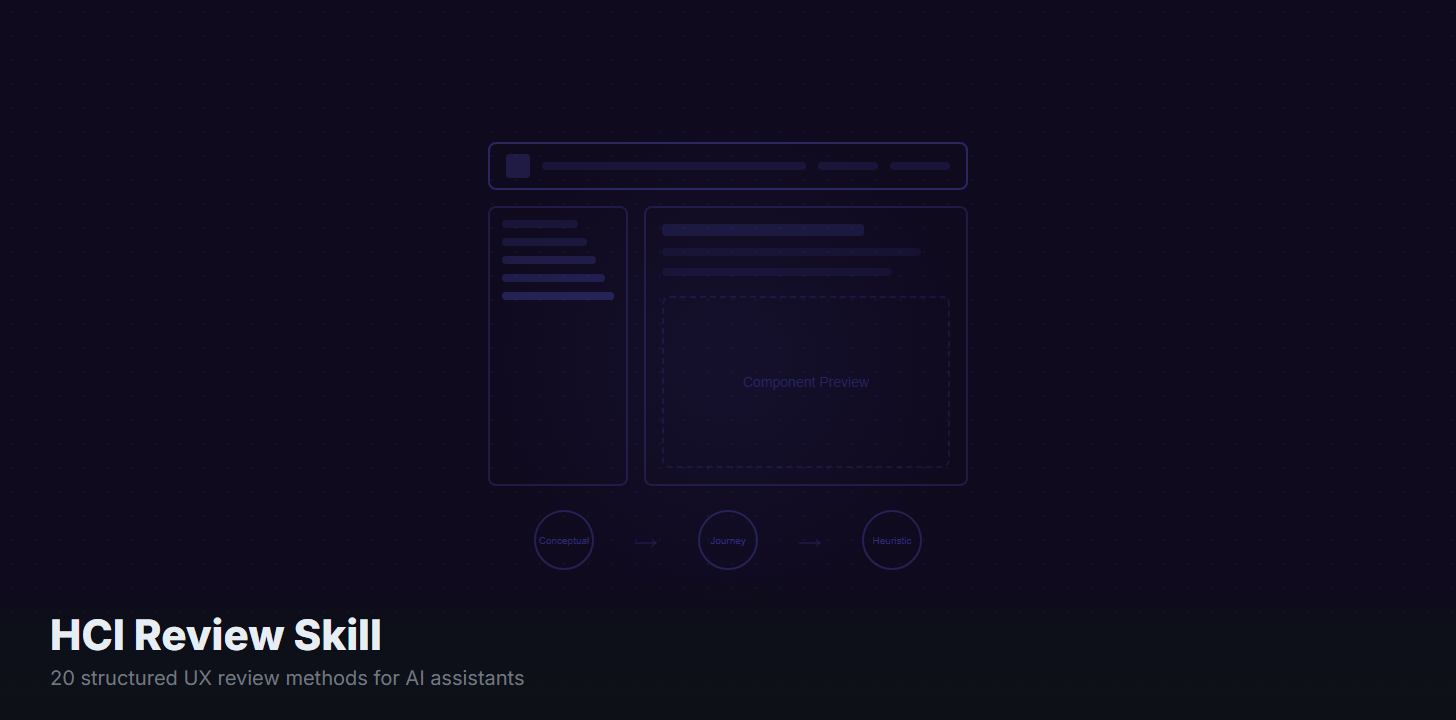
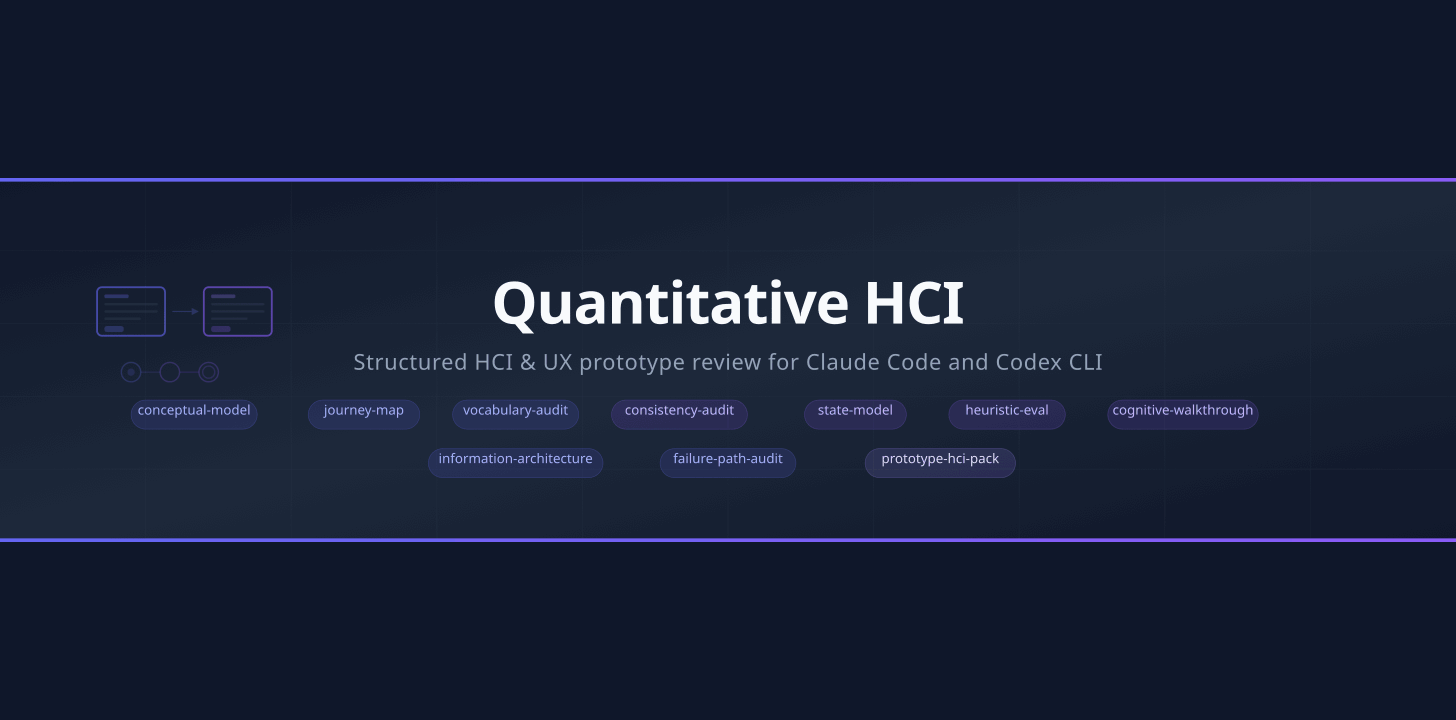
Add quantitative models for 20 interface design patterns

Changed region(s): [[0.0, 0.2139, 1.0, 0.7639], [0.0309, 0.8556, 0.3709, 0.9472]]

diff --git a/docs/hci/models/measure.py b/docs/hci/models/measure.py
@@ -1,0 +1,224 @@
+#!/usr/bin/env python3
+"""Calculate HCI diagnostics from measured inputs. See interface-design-models.md."""
+
+import argparse
+import json
+import math
+import statistics
+import sys
+from pathlib import Path
+
+
+def divide(numerator, denominator):
+    if denominator <= 0:
+        raise ValueError("a measurement denominator must be positive")
+    return numerator / denominator
+
+
+def rate(count, total):
+    if type(count) is not int or type(total) is not int or not 0 <= count <= total:
+        raise ValueError("counts must be integers with 0 <= count <= total")
+    return divide(count, total)
+
+
+def spread(samples):
+    return max(samples) - min(samples)
+
+
+def percentile(samples, fraction):
+    if not samples:
+        raise ValueError("percentiles require at least one sample")
+    return sorted(samples)[math.ceil(fraction * len(samples)) - 1]
+
+
+def kerning(kerned_px, unkerned_px, font_size_px):
+    return {"pair_adjustment_em": divide(kerned_px - unkerned_px, font_size_px)}
+
+
+def optical_centre(ink_centroid_px, container_centre_px, container_short_side_px):
+    offset = math.dist(ink_centroid_px, container_centre_px)
+    return {"normalised_centre_offset": divide(offset, container_short_side_px)}
+
+
+def tabular_numbers(digit_advances_px, decimal_positions_px):
+    if len(digit_advances_px) != 10:
+        raise ValueError("provide one advance for each of the ten digits")
+    return {
+        "digit_advance_spread_px": spread(digit_advances_px),
+        "decimal_drift_px": spread(decimal_positions_px),
+    }
+
+
+def layout_shift(page_view_cls, target_drift_px):
+    return {
+        "p75_cls": percentile(page_view_cls, 0.75),
+        "p95_target_drift_px": percentile(target_drift_px, 0.95),
+    }
+
+
+def tracking(letter_spacing_px, font_size_px):
+    return {"tracking_em": divide(letter_spacing_px, font_size_px)}
+
+
+def optimistic_update(action_ms, paint_ms, settled_ms, reconciled, settled_mutations):
+    return {
+        "feedback_ms": paint_ms - action_ms,
+        "confirmation_gap_ms": settled_ms - paint_ms,
+        "reconciliation_rate": rate(reconciled, settled_mutations),
+    }
+
+
+def x_height(x_height_px, font_size_px):
+    return {"x_height_ratio": divide(x_height_px, font_size_px)}
+
+
+def touch_target(distance_px, target_width_px, intercept_ms, slope_ms_per_bit):
+    index = math.log2(1 + divide(distance_px, target_width_px))
+    return {
+        "index_of_difficulty_bits": index,
+        "predicted_movement_ms": intercept_ms + slope_ms_per_bit * index,
+    }
+
+
+def leading(baseline_distance_px, font_size_px):
+    return {"line_height_ratio": divide(baseline_distance_px, font_size_px)}
+
+
+def origin_aware_animation(first_anchor_px, trigger_anchor_px, trigger_diagonal_px):
+    offset = math.dist(first_anchor_px, trigger_anchor_px)
+    return {"normalised_origin_error": divide(offset, trigger_diagonal_px)}
+
+
+def oklch(palette_lightness, foreground_luminance, background_luminance):
+    if not all(0 <= value <= 1 for value in (*palette_lightness, foreground_luminance, background_luminance)):
+        raise ValueError("lightness and relative luminance must be in [0, 1]")
+    darker, lighter = sorted((foreground_luminance, background_luminance))
+    return {
+        "oklch_lightness_spread": spread(palette_lightness),
+        "wcag_contrast_ratio": (lighter + 0.05) / (darker + 0.05),
+    }
+
+
+def widow(one_word_endings, multiline_blocks):
+    return {"one_word_final_line_rate": rate(one_word_endings, multiline_blocks)}
+
+
+def safe_area(target_ltrb_px, safe_ltrb_px):
+    left, top, right, bottom = target_ltrb_px
+    safe_left, safe_top, safe_right, safe_bottom = safe_ltrb_px
+    if left >= right or top >= bottom or safe_left >= safe_right or safe_top >= safe_bottom:
+        raise ValueError("rectangles require positive width and height in left, top, right, bottom order")
+    return {
+        "minimum_clearance_px": min(
+            left - safe_left, top - safe_top, safe_right - right, safe_bottom - bottom
+        ),
+    }
+
+
+def stagger(onsets_ms, content_ready_ms, all_items_usable_ms):
+    return {
+        "onset_spread_ms": spread(onsets_ms),
+        "readiness_delay_ms": all_items_usable_ms - content_ready_ms,
+    }
+
+
+def line_length(full_line_graphemes):
+    return {
+        "median_graphemes": statistics.median(full_line_graphemes),
+        "p90_graphemes": percentile(full_line_graphemes, 0.90),
+    }
+
+
+def affordance(correct_first_actions, attempts):
+    return {"correct_first_action_rate": rate(correct_first_actions, attempts)}
+
+
+def combobox(correct_selections, attempts, input_to_results_ms, stale_queries, queries):
+    return {
+        "correct_selection_rate": rate(correct_selections, attempts),
+        "p95_input_to_results_ms": percentile(input_to_results_ms, 0.95),
+        "stale_query_rate": rate(stale_queries, queries),
+    }
+
+
+def interruptible_animation(input_ms, first_retargeted_frame_ms, before_px, after_px):
+    return {
+        "retarget_latency_ms": first_retargeted_frame_ms - input_ms,
+        "position_jump_px": math.dist(before_px, after_px),
+    }
+
+
+def progressive_disclosure(advanced_share, mean_basic_s, mean_advanced_s, advanced_successes, advanced_attempts):
+    if not 0 <= advanced_share <= 1:
+        raise ValueError("advanced task share must be in [0, 1]")
+    return {
+        "expected_task_time_s": (1 - advanced_share) * mean_basic_s + advanced_share * mean_advanced_s,
+        "advanced_completion_rate": rate(advanced_successes, advanced_attempts),
+    }
+
+
+def shared_element_transition(animated_corners_px, live_corners_px, input_ms, destination_ready_ms):
+    if len(animated_corners_px) != 4 or len(live_corners_px) != 4:
+        raise ValueError("provide four matching corners for each box")
+    return {
+        "handoff_error_px": max(math.dist(before, after) for before, after in zip(animated_corners_px, live_corners_px)),
+        "task_latency_ms": destination_ready_ms - input_ms,
+    }
+
+
+MODELS = {
+    "kerning": kerning,
+    "optical-centre": optical_centre,
+    "tabular-numbers": tabular_numbers,
+    "layout-shift": layout_shift,
+    "tracking": tracking,
+    "optimistic-update": optimistic_update,
+    "x-height": x_height,
+    "touch-target": touch_target,
+    "leading": leading,
+    "origin-aware-animation": origin_aware_animation,
+    "oklch": oklch,
+    "widow": widow,
+    "safe-area": safe_area,
+    "stagger": stagger,
+    "line-length": line_length,
+    "affordance": affordance,
+    "combobox": combobox,
+    "interruptible-animation": interruptible_animation,
+    "progressive-disclosure": progressive_disclosure,
+    "shared-element-transition": shared_element_transition,
+}
+
+
+def calculate(measurements):
+    if not isinstance(measurements, dict) or not measurements:
+        raise ValueError("expected a non-empty JSON object keyed by model ID")
+
+    results = {}
+    for name, inputs in measurements.items():
+        if name not in MODELS:
+            raise ValueError(f"unknown model '{name}'")
+        try:
+            metrics = MODELS[name](**inputs)
+            if not all(math.isfinite(value) for value in metrics.values()):
+                raise ValueError("all computed measurements must be finite")
+            results[name] = metrics
+        except (ArithmeticError, TypeError, ValueError) as error:
+            raise ValueError(f"{name}: {error}") from error
+    return results
+
+
+def main():
+    parser = argparse.ArgumentParser(description=__doc__)
+    parser.add_argument("measurements", help="JSON measurements file, or '-' for standard input")
+    args = parser.parse_args()
+    try:
+        raw = sys.stdin.read() if args.measurements == "-" else Path(args.measurements).read_text(encoding="utf-8")
+        results = calculate(json.loads(raw))
+    except (OSError, ValueError) as error:
+        parser.exit(2, f"{parser.prog}: {error}\n")
+    print(json.dumps(results, indent=2, allow_nan=False))
+
+
+if __name__ == "__main__":
+    main()

diff --git a/docs/hci/models/interface-design-models.md b/docs/hci/models/interface-design-models.md
@@ -1,0 +1,59 @@
+# Quantitative models for 20 interface design terms
+
+The [source reel](https://www.instagram.com/reel/DfknF2ljIE6/) supplies the terms and their order. The models below specify what to measure, what the number means, and where a user outcome needs separate evidence. All example values are synthetic.
+
+Run every example with Python 3.9+ from the repository root:
+
+```bash
+python3 docs/hci/models/measure.py docs/hci/models/example-measurements.json
+```
+
+Pass a JSON object keyed by model ID with the input fields shown in the [example file](example-measurements.json). Omit models outside the task. Use `-` as the filename to read the object from standard input. The calculator consumes measured values. Collect browser traces, geometry or usability observations first.
+
+## Model catalogue
+
+| # | Reel term and model ID | Quantitative model | How to measure and interpret it |
+| --- | --- | --- | --- |
+| 1 | Kerning · `kerning` | Pair adjustment in em = (advance with kerning − advance without kerning) / font size. For example, (30 − 32) / 20 = −0.10 em. | Shape the same pair twice with the same font, size, axes and script, toggling kerning only. Use the pair advance along the writing direction. The sign shows whether kerning tightens or loosens the pair. Judge visual quality on representative pairs at the actual size. |
+| 2 | Optical centre · `optical-centre` | Residual imbalance proxy = Euclidean distance from the adjusted ink centroid to the container centre, divided by the container's short side. For example, 1 / 32 ≈ 0.0313. | Compute an alpha-weighted ink centroid from the rendered icon and express both points in the same CSS pixel space. Compare candidate offsets with a blinded preference check. Ink balance is a geometric proxy for perceived centring. |
+| 3 | Tabular numbers · `tabular-numbers` | Digit spread = max advance − min advance across digits 0–9. Decimal drift = max decimal-anchor x − min anchor x across rows. For example, 0 px and 0 px. | Measure actual glyph advances in the rendered numeric face and separator positions in a common column coordinate system. Try multiple digit counts, signs, currencies and locales. Equal digit widths allow stable updates and require decimal alignment separately. |
+| 4 | Layout shift · `layout-shift` | Field CLS target ≤ 0.10 at the 75th percentile. For a lab trace, a shift score is impact fraction × distance fraction. CLS is the largest eligible session-window sum. For example, p75 CLS 0.12, p95 target drift 36 px. | Collect one browser CLS value per completed page-view measurement and segment field results by device class. Use the Web Vitals session-window rules. Also measure movement of the actionable target between its initial position and activation, including shifts CLS excludes after input. |
+| 5 | Tracking · `tracking` | Tracking in em = computed letter spacing in CSS px / font size in CSS px. For example, 0.48 / 16 = 0.03 em. | Compare tracking across sizes using computed styles and inspect wrapping for the real scripts and strings. Apply all WCAG text-spacing overrides together to check for lost content or functionality. The 0.12 em override is a test condition. |
+| 6 | Optimistic update · `optimistic-update` | Feedback latency = first visible result − action. Confirmation gap = server settlement − first visible result. Reconciliation rate = rolled-back or corrected mutations / settled mutations. For example, 40 ms, 440 ms, 3%. | Correlate each action, painted state, settlement and reconciliation by mutation ID. Sample normal, offline, rejected and out-of-order responses. Review p95 feedback latency and reconcile every terminal outcome to the latest authoritative state. |
+| 7 | x-height · `x-height` | x-height ratio = lowercase x-height / font size. For example, 8.8 / 16 = 0.55. | Measure the lowercase x above its baseline or use the instantiated font's x-height metric. Hold size and rendering conditions constant between faces. Compare reading accuracy or speed at the intended sizes and include script-appropriate metrics for other writing systems. |
+| 8 | Touch target · `touch-target` | Fitts' law index of difficulty = log₂(1 + D/W), with distance D and target width W along the movement axis. Predicted movement time = a + b × index. For example, 96 / 48 gives 1.585 bits and 175.1 ms using a = 80 ms and b = 60 ms/bit. | Measure the effective hit region and pointing distance in CSS px. Fit coefficients on representative tasks and devices, then observe miss rates. Separately check WCAG 2.2 AA SC 2.5.8 against the 24 × 24 CSS px minimum and applicable exceptions. |
+| 9 | Leading · `leading` | Line-height ratio = baseline distance / font size. For example, 24 / 16 = 1.5. | Measure adjacent baselines in a consistent text block. Test wrapped paragraphs, fallback fonts and zoom. Verify that WCAG text-spacing overrides leave all content and controls usable. |
+| 10 | Origin-aware animation · `origin-aware-animation` | Origin error = distance from the first visible motion anchor to the trigger anchor / trigger diagonal. For example, 5 / 50 = 0.10. | Define matching anchors for both elements in viewport coordinates before recording. Sample the first visible frame and compare a few trigger positions. Test focus, instant activation under reduced motion, and users' ability to associate the popup with its trigger. |
+| 11 | OKLCH · `oklch` | Palette lightness spread = max rendered OKLCH L − min rendered OKLCH L. WCAG text contrast = (Y lighter + 0.05) / (Y darker + 0.05), using relative luminance Y. For example, lightness spread 0.02 and 5:1 contrast. | Measure palette values after target-gamut mapping and obtain luminances from the actual composited foreground/background pair. Use the WCAG contrast criterion for the text type. Matching OKLCH lightness is a palette comparison and has no automatic contrast implication. |
+| 12 | Widow · `widow` | One-word final-line rate = multi-line blocks whose last rendered line has one word / eligible multi-line blocks. For example, 6 / 40 = 15%. | Count rendered lines with locale-aware word segmentation at representative widths, font sizes and translations. This is the reel's single-word paragraph ending. Check readability and layout after any change. |
+| 13 | Safe area · `safe-area` | Minimum clearance = min(left, top, right, bottom margins between the actual hit bounds and the safe rectangle). A negative result means the target crosses an edge. For example, 16 px minimum. | Express both rectangles in viewport CSS px and test real device orientations and browser chrome states. Use reported safe-area insets to build the safe rectangle. Evaluate keyboard occlusion separately. |
+| 14 | Stagger · `stagger` | Onset spread = latest first visible frame − earliest first visible frame. Readiness delay = time all items become usable − time content is ready. For example, 105 ms spread and 180 ms readiness delay. | Record paint and interaction availability independently. Vary list length and test reduced motion. Keep keyboard and pointer availability within the task budget. |
+| 15 | Line length · `line-length` | Median and 90th percentile graphemes per full line, with spaces counted. For example, median 63 and p90 74. | Measure rendered lines and omit paragraph-final lines from this diagnostic. Compare reading time and comprehension across widths. Treat 65 as a candidate, and evaluate WCAG's separate Level AAA presentation requirement where applicable. |
+| 16 | Affordance · `affordance` | Correct first-action rate = attempts whose first action uses the intended control / eligible unprompted attempts. For example, 34 / 40 = 85%. | Give representative participants a goal with no hint about the control. Record the first action, including no action by a predeclared timeout as a failure. Test keyboard and pointer cohorts. The metric evaluates discovery of the visual or semantic signifier. |
+| 17 | Combobox · `combobox` | Correct completion rate = correct selections / attempts. Report p95 input-to-current-results paint and stale-result rate per eligible query. For example, 90% completion, p95 160 ms, 0% stale queries. | Start a timer at input and stop at the first paint for the matching query ID. Include slow and out-of-order responses and report missing results with the task outcomes. Verify focus, keyboard behaviour and announcements against the relevant APG pattern. |
+| 18 | Interruptible animation · `interruptible-animation` | Retarget latency = first frame following the new destination − new input. Position jump = distance between sampled positions immediately before and after retarget. For example, 16 ms and 1 px. | Interrupt at several transition points. Sample both positions at the retarget timestamp with animation instrumentation to isolate discontinuity from normal frame-to-frame movement. Compare p95 latency, check the final state matches the latest input, and check reduced motion. |
+| 19 | Progressive disclosure · `progressive-disclosure` | Expected task time = (1 − p) × mean basic time + p × mean advanced time, where p is the advanced-task share. Compare advanced completion rate separately. For example, 80% × 20 s + 20% × 50 s = 26 s, with 90% advanced completion. | Estimate each mean under the same predefined policy for timed-out and failed trials. Measure basic and advanced tasks before and after, including errors and abandonment. Use an observed task mix or run sensitivity analysis across plausible values of p. |
+| 20 | Shared element transition · `shared-element-transition` | Handoff error = max of Euclidean displacements of matching corners between the last animated box and first live destination box. Task latency = destination ready − navigation input. For example, 2 px and 220 ms. | Use screen-space corners in consistent order. Check object identity and destination focus through open, back and interrupted navigation. Compare time to locate the item and preserve the same result with reduced motion. |
+
+## Record evidence in a review
+
+1. Record the task, variant, device or viewport, input mode, accessibility settings and measurement boundaries.
+2. Record sample sizes and eligibility rules. Report missing observations and failure rates with timings. The calculator uses nearest-rank percentiles and expects non-empty samples.
+3. Compare the same tasks before and after. Use paired or counterbalanced trials where appropriate. Segment results when inputs or populations differ.
+4. Define release targets from the applicable standard or the task baseline. For diagnostic proxies, record the user outcome that will confirm the design change.
+5. Add findings to the [HCI scorecard](../templates/hci-scorecard.md) with a trace, task log or screenshot and a link back to the model.
+
+## References
+
+- [MacKenzie, Fitts' Law as a Research and Design Tool in Human-Computer Interaction](https://www.yorku.ca/mack/hci1992.html)
+- [Web Vitals, Cumulative Layout Shift](https://web.dev/articles/cls)
+- [WCAG 2.2, Target Size (Minimum)](https://www.w3.org/WAI/WCAG22/Understanding/target-size-minimum.html)
+- [WCAG 2.2, Text Spacing](https://www.w3.org/WAI/WCAG22/Understanding/text-spacing.html)
+- [WCAG 2.2, Contrast (Minimum)](https://www.w3.org/WAI/WCAG22/Understanding/contrast-minimum.html)
+- [WCAG 2.2, Visual Presentation](https://www.w3.org/WAI/WCAG22/Understanding/visual-presentation.html)
+- [WCAG 2.2, Animation from Interactions](https://www.w3.org/WAI/WCAG22/Understanding/animation-from-interactions.html)
+- [WAI-ARIA Authoring Practices, Combobox Pattern](https://www.w3.org/WAI/ARIA/apg/patterns/combobox/)
+- [CSS Color Module Level 4](https://www.w3.org/TR/css-color-4/#ok-lab)
+- [MDN, CSS environment variables](https://developer.mozilla.org/en-US/docs/Web/CSS/Guides/Environment_variables/Using)
+- [MDN, Numeric font variants](https://developer.mozilla.org/en-US/docs/Web/CSS/Reference/Properties/font-variant-numeric)
+- [MDN, View Transition API](https://developer.mozilla.org/en-US/docs/Web/API/View_Transition_API)

diff --git a/README.md b/README.md
@@ -1,11 +1,11 @@
-# hci-review-skill
+# Quantitative HCI
 
 <p align="center">
-  <img src="logo.svg" alt="hci-review-skill logo" width="128" height="128" />
+  <img src="logo.svg" alt="Quantitative HCI logo" width="128" height="128" />
 </p>
 
 <p align="center">
-  <img src="banner.svg" alt="hci-review-skill banner" width="100%" />
+  <img src="banner.svg" alt="Quantitative HCI banner" width="100%" />
 </p>
 
 <p align="center">
@@ -16,6 +16,16 @@
 </p>
 
 A structured HCI and UX review skill pack for prototypes, flows, interface systems, research planning, and usability evaluation. It focuses on models, journeys, terminology, state handling, consistency, failure paths, heuristics, cognitive walkthroughs, personas, task analysis, prototype planning, and usability studies.
+
+## Quantitative models
+
+The [interface design catalogue](docs/hci/models/interface-design-models.md) covers 20 terms from typography, layout, interaction and motion. Each entry defines what to measure and how to interpret it.
+
+Run the calculator against the [synthetic examples](docs/hci/models/example-measurements.json) with Python 3.9+.
+
+```bash
+python3 docs/hci/models/measure.py docs/hci/models/example-measurements.json
+```
 
 ## Included skills
 
@@ -76,8 +86,8 @@ A structured HCI and UX review skill pack for prototypes, flows, interface syste
 ### Option A: Install globally
 
 ```bash
-git clone https://github.com/45ck/hci-review-skill.git
-cd hci-review-skill
+git clone https://github.com/45ck/hci-review-skill.git quantitative-hci
+cd quantitative-hci
 bash install.sh
 ```
 

diff --git a/.agents/skills/prototype-hci-pack/SKILL.md b/.agents/skills/prototype-hci-pack/SKILL.md
@@ -169,6 +169,12 @@ Create `hci-scorecard.md` rating the prototype 1-5 on each dimension:
 
 Include total score out of 40, top 3 strengths, top 3 weaknesses, and priority fixes.
 
+For relevant interface patterns, use the Quantitative HCI catalogue at
+`docs/hci/models/interface-design-models.md` in the Quantitative HCI repository.
+Record the model ID, baseline, observed value, unit, sample size, test context,
+and evidence. If a measurement is missing, record how to collect it. Keep
+measurements alongside the scorecard's judgement scores.
+
 ### 11) Synthesize
 Create `hci-summary.md` with:
 - one-paragraph context recap

diff --git a/.claude/skills/prototype-hci-pack/SKILL.md b/.claude/skills/prototype-hci-pack/SKILL.md
@@ -169,6 +169,12 @@ Create `hci-scorecard.md` rating the prototype 1-5 on each dimension:
 
 Include total score out of 40, top 3 strengths, top 3 weaknesses, and priority fixes.
 
+For relevant interface patterns, use the Quantitative HCI catalogue at
+`docs/hci/models/interface-design-models.md` in the Quantitative HCI repository.
+Record the model ID, baseline, observed value, unit, sample size, test context,
+and evidence. If a measurement is missing, record how to collect it. Keep
+measurements alongside the scorecard's judgement scores.
+
 ### 11) Synthesize
 Create `hci-summary.md` with:
 - one-paragraph context recap

diff --git a/docs/hci/templates/hci-scorecard.md b/docs/hci/templates/hci-scorecard.md
@@ -61,3 +61,13 @@ Rate each dimension 1-5:
 | Dimension | Previous | Current | Change |
 |-----------|----------|---------|--------|
 |           |          |         |        |
+
+
+## Quantitative measurements
+
+Use the relevant [interface design model](../models/interface-design-models.md)
+and record the task, variant, device, and input mode in the evidence.
+
+| Task and model ID | Baseline | Current | Unit | Sample size | Target and basis | Evidence |
+| --- | --- | --- | --- | --- | --- | --- |
+| | | | | | | |
